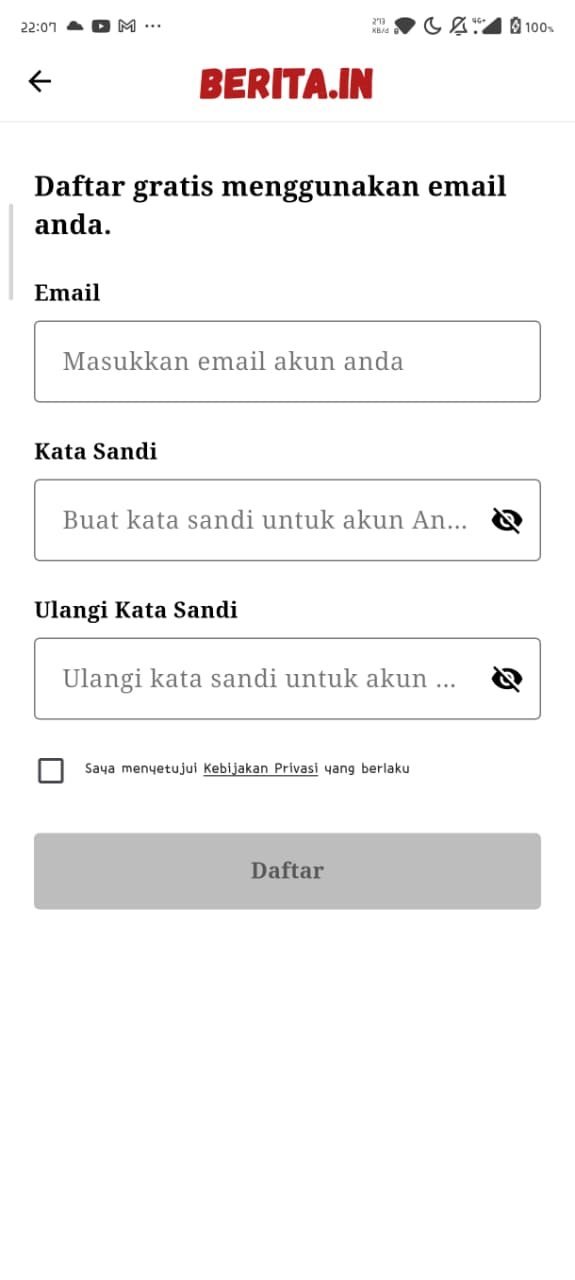
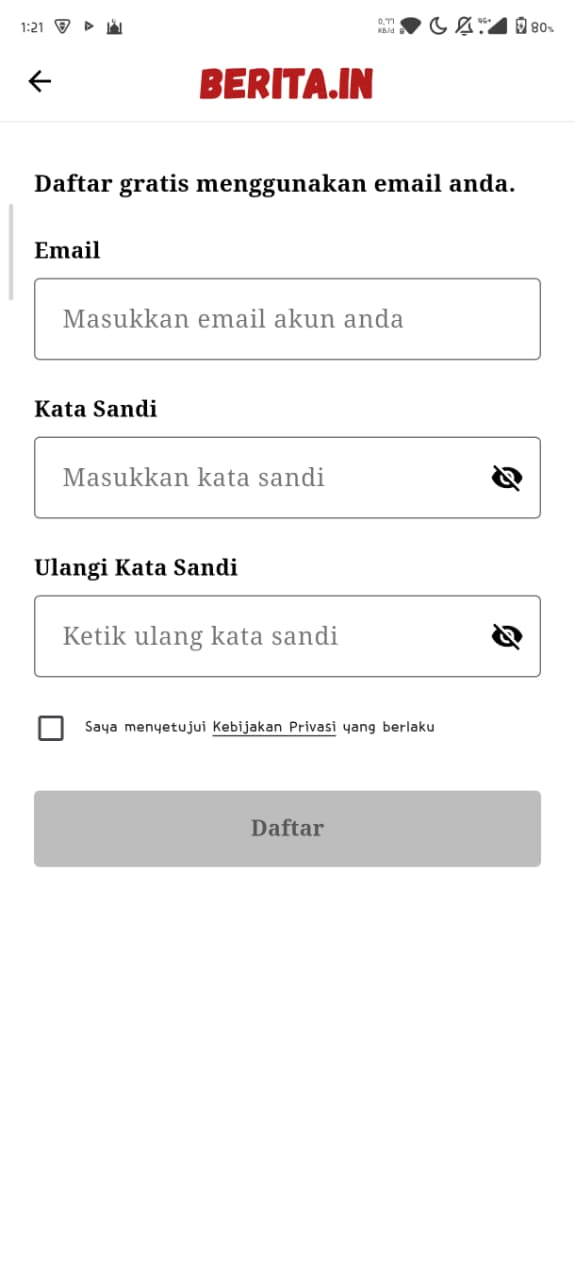
Fix: Shorten the hint text on the registration form so it isn't cut off

diff --git a/lib/views/register_screen.dart b/lib/views/register_screen.dart
@@ -82,7 +82,7 @@ class _RegisterScreenState extends State<RegisterScreen> {
                 const Text(
                   'Daftar gratis menggunakan email anda.',
                   style: TextStyle(
-                    fontSize: 18,
+                    fontSize: 15,
                     fontWeight: FontWeight.bold,
                     color: Colors.black,
                   ),
@@ -142,7 +142,7 @@ class _RegisterScreenState extends State<RegisterScreen> {
                     return null;
                   },
                   decoration: InputDecoration(
-                    hintText: 'Buat kata sandi untuk akun Anda',
+                    hintText: 'Masukkan kata sandi',
                     hintStyle: const TextStyle(color: Colors.black54),
                     contentPadding: const EdgeInsets.symmetric(horizontal: 16, vertical: 16),
                     border: OutlineInputBorder(borderRadius: BorderRadius.circular(4), borderSide: const BorderSide(color: Colors.black87)),
@@ -177,7 +177,7 @@ class _RegisterScreenState extends State<RegisterScreen> {
                     return null;
                   },
                   decoration: InputDecoration(
-                    hintText: 'Ulangi kata sandi untuk akun Anda',
+                    hintText: 'Ketik ulang kata sandi',
                     hintStyle: const TextStyle(color: Colors.black54),
                     contentPadding: const EdgeInsets.symmetric(horizontal: 16, vertical: 16),
                     border: OutlineInputBorder(borderRadius: BorderRadius.circular(4), borderSide: const BorderSide(color: Colors.black87)),
@@ -214,7 +214,7 @@ class _RegisterScreenState extends State<RegisterScreen> {
                     Expanded(
                       child: RichText(
                         text: const TextSpan(
-                          style: TextStyle(fontSize: 13, color: Colors.black87),
+                          style: TextStyle(fontSize: 14, color: Colors.black87),
                           children: [
                             TextSpan(text: 'Saya menyetujui '),
                             TextSpan(